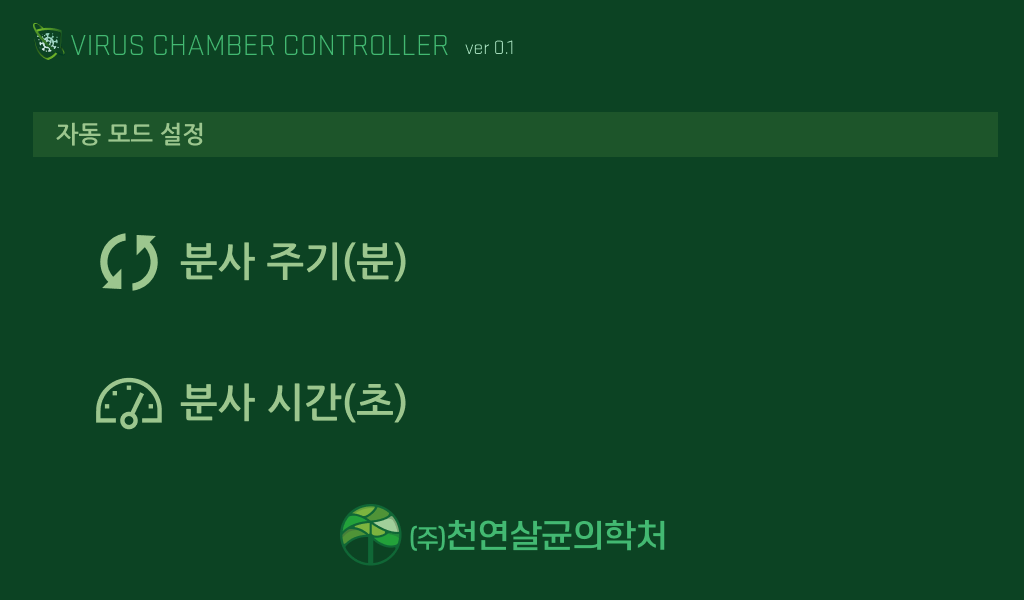
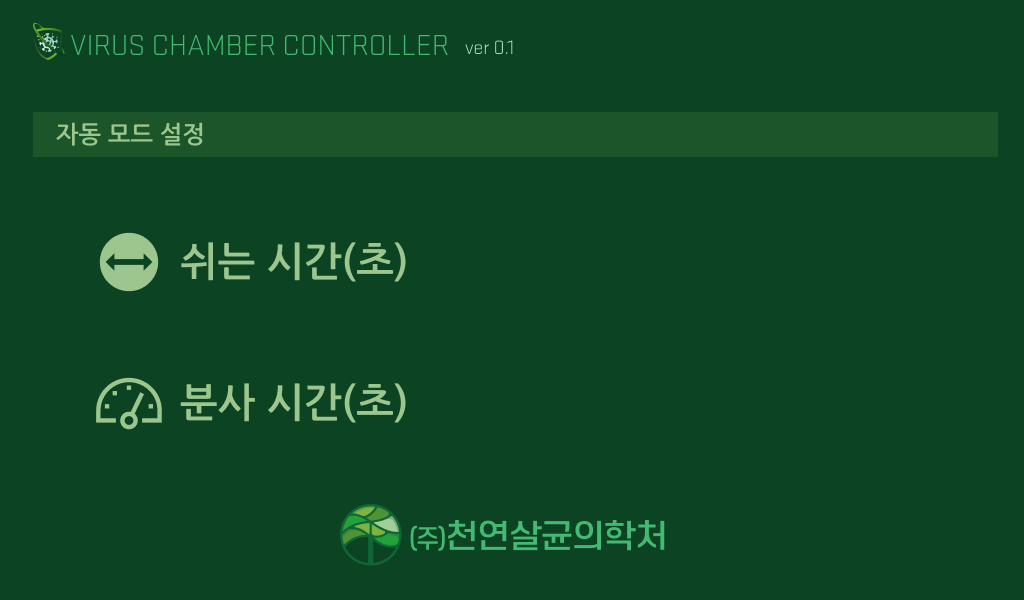
자동분사 UI수정

Changed region(s): [[0.0938, 0.39, 0.4062, 0.48]]

diff --git a/nsc_rp/auto_page.py b/nsc_rp/auto_page.py
@@ -45,7 +45,7 @@ class AutoPage(SettingPage):
 
     def upTime(self):
         ATTRIBUTE_ = "auto_spray_duration_sec"
-        INCREMENT_ = 5
+        INCREMENT_ = 1
         MAX_ = 30
 
         value_ = self.get_value(ATTRIBUTE_)
@@ -57,7 +57,7 @@ class AutoPage(SettingPage):
 
     def downTime(self):
         ATTRIBUTE_ = "auto_spray_duration_sec"
-        INCREMENT_ = 5
+        INCREMENT_ = 1
         MIN_ = 5
 
         value_ = self.get_value(ATTRIBUTE_)
@@ -70,7 +70,7 @@ class AutoPage(SettingPage):
     def upCycleTime(self):
         ATTRIBUTE_ = "auto_cycle_min"
         INCREMENT_ = 1
-        MAX_ = 10
+        MAX_ = 100
 
         value_ = self.get_value(ATTRIBUTE_)
         str_value_ = str(value_ + INCREMENT_)
@@ -82,7 +82,7 @@ class AutoPage(SettingPage):
     def downCycleTime(self):
         ATTRIBUTE_ = "auto_cycle_min"
         INCREMENT_ = 1
-        MIN_ = 1
+        MIN_ = 10
 
         value_ = self.get_value(ATTRIBUTE_)
         str_value_ = str(value_ - INCREMENT_)
